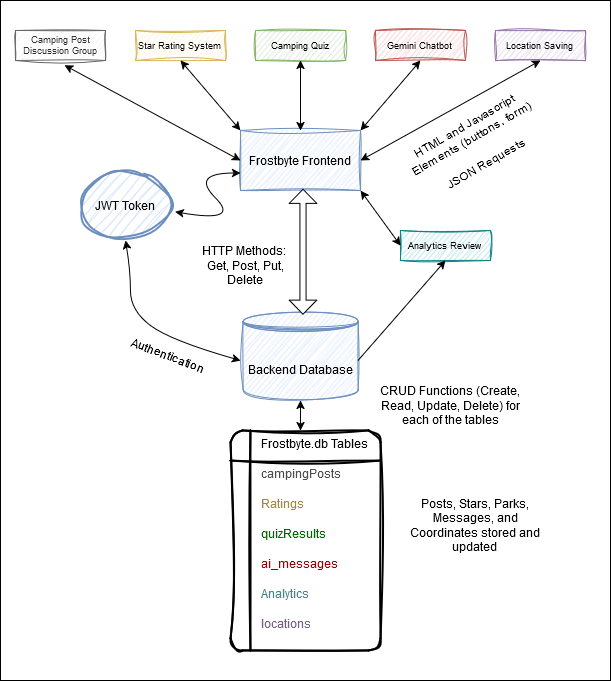
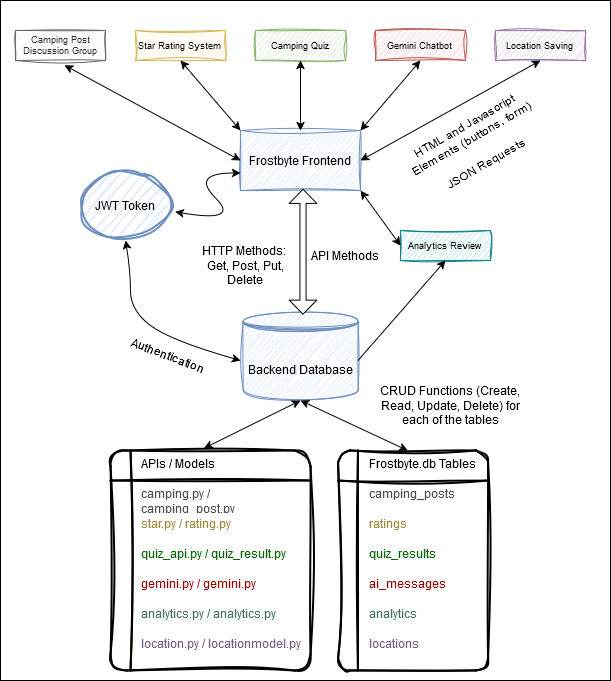
deployment blog commit

Changed region(s): [[0.1555, 0.5859, 0.9018, 0.9868], [0.4975, 0.37, 0.6219, 0.4009]]

diff --git a/navigation/about/deployment.md b/navigation/about/deployment.md
@@ -52,19 +52,29 @@ comments: true
         }
 </style>
 
+## Operating Structure of Our Backend Database
 
 <img src="{{ site.baseurl }}/images/deployment_page/Frostbyte_Deployment_Diagram.png" alt="Backend Diagram">
 
 <div class="carousel-container">
-<img src="images/risha frontend.png" class="carousel-item" onclick="openFullscreen(this.src)">
-<img src="images/risha code.png" class="carousel-item" onclick="openFullscreen(this.src)">
 <div class="text-item">RISHA</div>
-<img src="images/shriya frontend.png" class="carousel-item" onclick="openFullscreen(this.src)">
-<img src="images/shriya code.png" class="carousel-item" onclick="openFullscreen(this.src)">
+<img src="{{ site.baseurl }}/images/deployment_page/risha_frontend.png" class="carousel-item" onclick="openFullscreen(this.src)">
+<img src="{{ site.baseurl }}/images/deployment_page/risha_code.png" class="carousel-item" onclick="openFullscreen(this.src)">
 <div class="text-item">SHRIYA</div>
-<img src="images/about/screenshot1.jpg" class="carousel-item" onclick="openFullscreen(this.src)">
-<img src="images/about/screenshot2.jpg" class="carousel-item" onclick="openFullscreen(this.src)">
+<img src="{{ site.baseurl }}/images/deployment_page/shriya_frontend.png" class="carousel-item" onclick="openFullscreen(this.src)">
+<img src="{{ site.baseurl }}/images/deployment_page/shriya_code.png" class="carousel-item" onclick="openFullscreen(this.src)">
 <div class="text-item">AVA</div>
+<img src="{{ site.baseurl }}/images/deployment_page/ava_code.png" class="carousel-item" onclick="openFullscreen(this.src)">
+<img src="{{ site.baseurl }}/images/deployment_page/ava_frontend.png" class="carousel-item" onclick="openFullscreen(this.src)">
+<div class="text-item">ELLIOT</div>
+<img src="{{ site.baseurl }}/images/deployment_page/elliot_code.png" class="carousel-item" onclick="openFullscreen(this.src)">
+<img src="{{ site.baseurl }}/images/deployment_page/elliot_frontend.png" class="carousel-item" onclick="openFullscreen(this.src)">
+<div class="text-item">ABBY</div>
+<img src="{{ site.baseurl }}/images/deployment_page/abby_code.png" class="carousel-item" onclick="openFullscreen(this.src)">
+<img src="{{ site.baseurl }}/images/deployment_page/abby_frontend.png" class="carousel-item" onclick="openFullscreen(this.src)">
+<div class="text-item">ARANYA</div>
+<img src="{{ site.baseurl }}/images/deployment_page/aranya_code.png" class="carousel-item" onclick="openFullscreen(this.src)">
+<img src="{{ site.baseurl }}/images/deployment_page/aranya_frontend.png" class="carousel-item" onclick="openFullscreen(this.src)">
 
 </div>
 
@@ -175,7 +185,115 @@ Deployment Process Using Docker & Cockpit for a GitHub Pages Frontend & Backend 
         Automate deployment with GitHub Actions to update the backend when pushing new changes.
 
 This setup ensures a smooth deployment process, with GitHub Pages serving the frontend and Docker + Cockpit managing the backend efficiently. 🚀
-=======
- 
 
->>>>>>> 4579278 (change)
+
+# Deployment Process
+
+### Frontend and Backend Setup: Port 8102
+
+We have set the following configuration in config.yml in frontend: 
+
+<code>```yml
+Server: https://flask2025.nighthawkcodingsociety.com/
+Domain: nighthawkcodingsociety.com
+Subdomain: flask2025
+```</code>
+
+In assets/api/config.js, we set: 
+
+<code>
+  export var pythonURI;
+  if (location.hostname === "localhost" || location.hostname === "127.0.0.1") {
+      pythonURI = "http://localhost:8087";  // Same URI for localhost or 127.0.0.1
+  } else {
+      pythonURI = "https://flask2025.nighthawkcodingsociety.com";
+  }
+</code>
+
+In the backend, we set these configurations: 
+
+- main.py
+
+    <code>
+      if __name__ == "__main__":
+          # change name for testing
+          app.run(debug=True, host="0.0.0.0", port="8102")
+    </code>
+
+- Dockerfile
+
+      <code> 
+      FROM docker.io/python:3.11
+
+      WORKDIR /
+      RUN apt-get update && apt-get upgrade -y && \
+          apt-get install -y python3 python3-pip git
+      COPY . /
+
+      RUN pip install --no-cache-dir -r requirements.txt
+      RUN pip install gunicorn
+
+      ENV GUNICORN_CMD_ARGS="--workers=1 --bind=0.0.0.0:8102"
+
+      EXPOSE 8102
+      ENV FLASK_ENV=production
+
+      CMD [ "gunicorn", "main:app" ] 
+      </code>
+
+- docker-compose.yml
+
+    <code>      
+          version: '3'
+          services:
+                  web:
+                          image: flask2025
+                          build: .
+                          env_file:
+                                  - .env
+                          ports:
+                                  - "8102:8102"
+                          volumes:
+                                  - ./instance:/instance
+                          restart: unless-stopped
+    </code>
+
+- nginx_file 
+
+    <code>
+      server {
+          listen 80;
+          listen [::]:80;
+          server_name flask2025.nighthawkcodingsociety.com;
+
+          location / {
+              proxy_pass http://localhost:8102;
+
+              # Preflighted requests
+              if ($request_method = OPTIONS) {
+                  add_header "Access-Control-Allow-Credentials" "true" always;
+                  add_header "Access-Control-Allow-Origin"  "https://nighthawkcoders.github.io" always;
+                  add_header "Access-Control-Allow-Methods" "GET, POST, PUT, DELETE, OPTIONS, HEAD" always;
+                  add_header "Access-Control-Allow-MaxAge" 600 always;
+                  add_header "Access-Control-Allow-Headers" "Authorization, Origin, X-Origin, X-Requested-With, Content-Type, Accept" always;
+                  return 204;
+              }
+          }
+      }
+    </code>
+
+
+
+### How We Will Set UP AWS: 
+
+1. Login with provided credentials
+2. Clone our backend repo: (blackstar3092/frostbyte_backend)
+3. Our .env file will contain our passwords and Gemini API key, and we will initialize our database with ./scripts/db_init.py
+4. To build the docker environment: docker-compose build & docker-compose up -d
+5. Finally, we will test our server with curl
+        docker ps # looking for port 8102
+        curl localhost:8102
+
+Next, we will set up our domain on Route53 (domain will be frostbyte.flask.nighthawkscsp.com) and test DNS through WSL.
+
+Finally, we have already set up Nginx on our backend; we will work on setting it up on the AWS server to function with our backend database, as well as setting up Certbot for authentication. 
